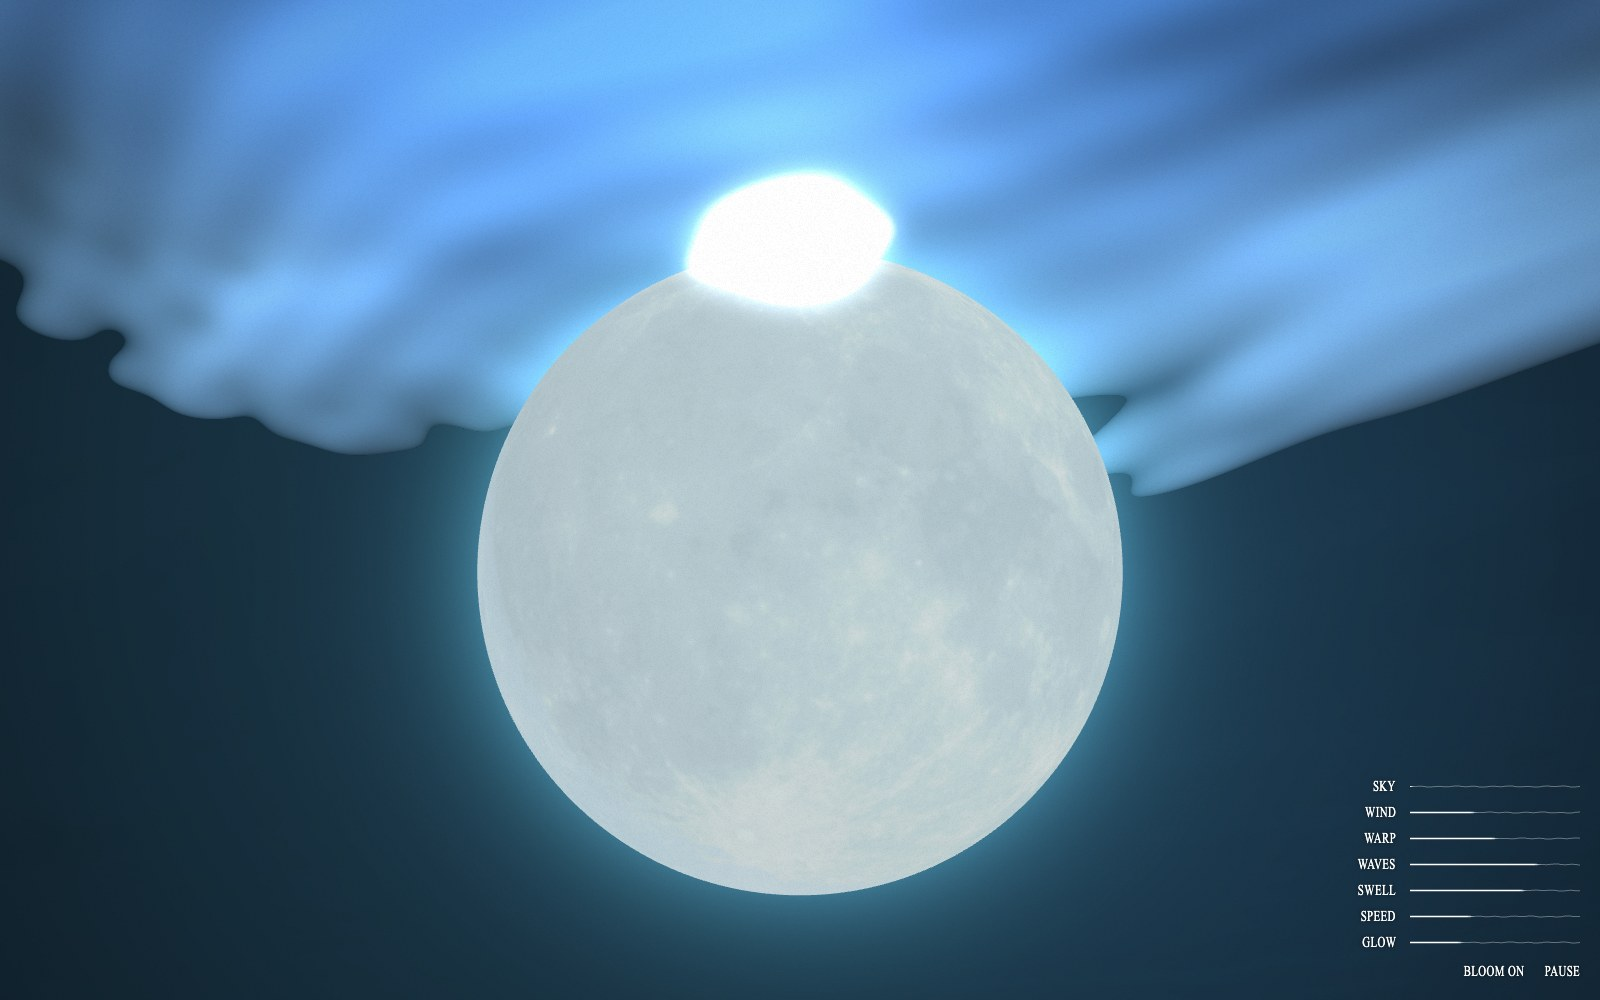
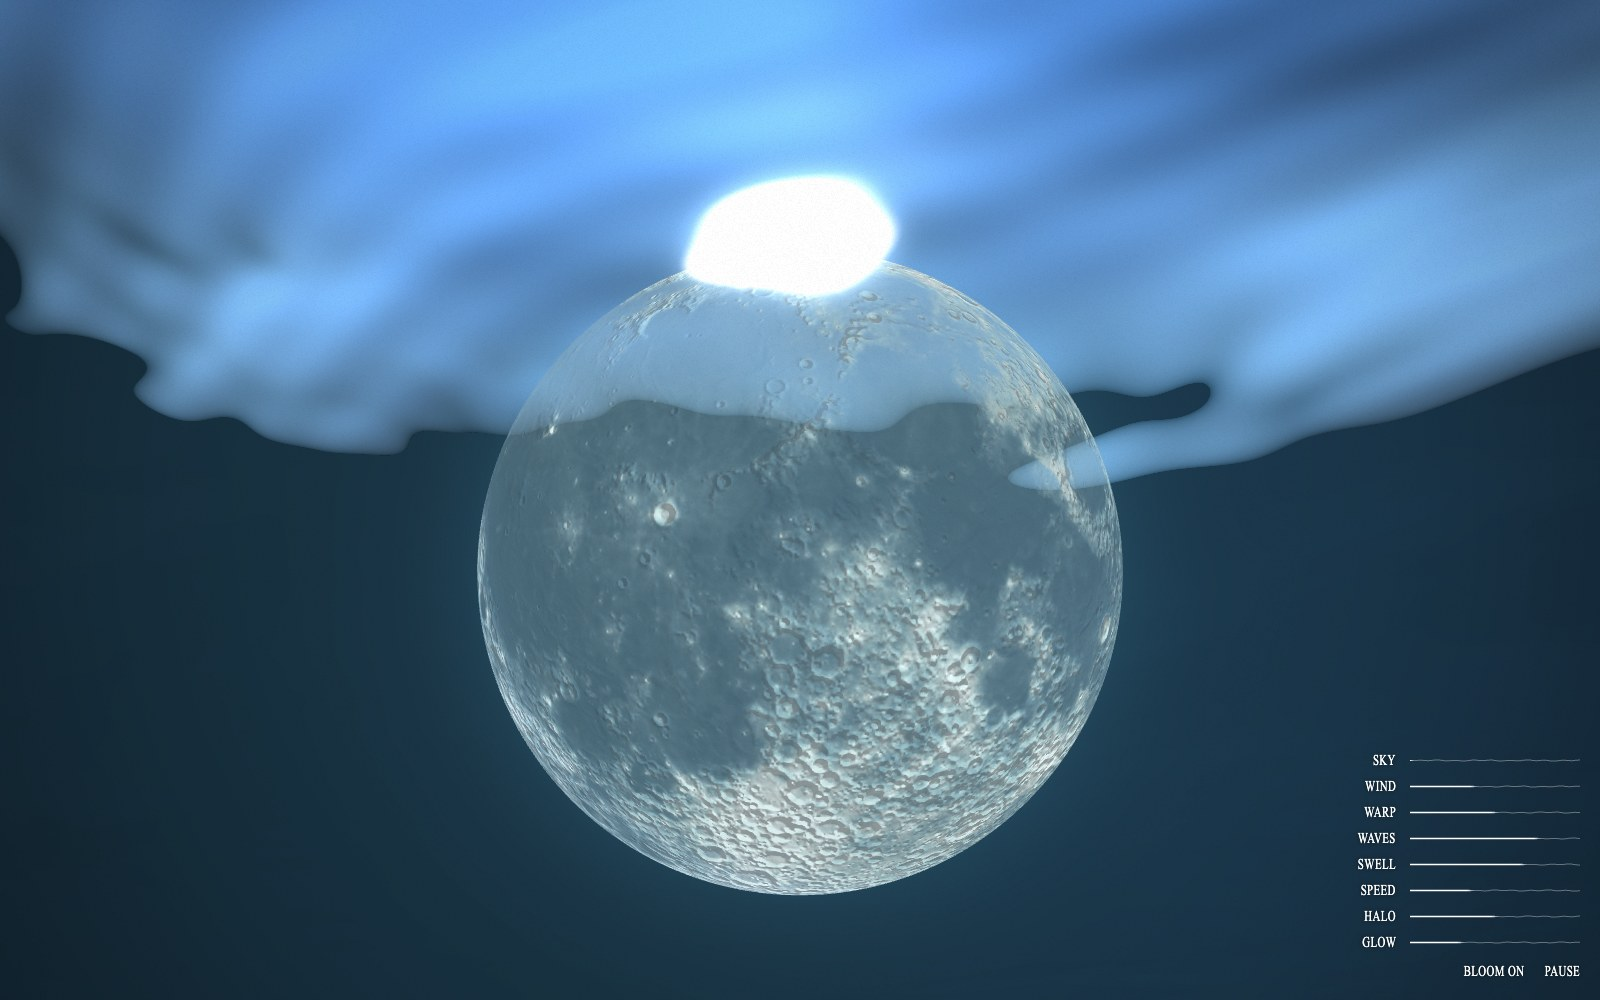
Daytime moon: see-through seas, crater relief, quiet halo; Halo control
By day the moon's dark seas turn see-through and the highlands stay solid, the
crater relief shows across the whole face, and the halo around it is turned down.
New Halo control scales the glow around the moon.

diff --git a/public/games/flymetothemoon/index.html b/public/games/flymetothemoon/index.html
@@ -54,6 +54,7 @@
   <label for="chop"><span class="squeeze">Waves</span></label><div class="line"><canvas aria-hidden="true"></canvas><input id="chop" type="range" min="0" max="1.2" step="0.01" value="0.9"></div>
   <label for="swell"><span class="squeeze">Swell</span></label><div class="line"><canvas aria-hidden="true"></canvas><input id="swell" type="range" min="0" max="1.2" step="0.01" value="0.8"></div>
   <label for="speed"><span class="squeeze">Speed</span></label><div class="line"><canvas aria-hidden="true"></canvas><input id="speed" type="range" min="0.1" max="1.5" step="0.01" value="0.6"></div>
+  <label for="halo"><span class="squeeze">Halo</span></label><div class="line"><canvas aria-hidden="true"></canvas><input id="halo" type="range" min="0" max="2" step="0.01" value="1"></div>
   <label for="glow"><span class="squeeze">Glow</span></label><div class="line"><canvas aria-hidden="true"></canvas><input id="glow" type="range" min="0" max="2" step="0.01" value="0.6"></div>
   <div class="buttons">
     <button id="bloom" type="button" aria-pressed="true"><span class="squeeze">Bloom on</span></button>
@@ -106,7 +107,7 @@
     uDeepL: { value: new THREE.Vector3() }, uDeepR: { value: new THREE.Vector3() }, uUpLight: { value: new THREE.Vector3() },
     uSkyLow: { value: new THREE.Vector3() }, uSkyHigh: { value: new THREE.Vector3() },
     uGlowA: { value: new THREE.Vector3() }, uGlowB: { value: new THREE.Vector3() },
-    uHalo: { value: new THREE.Vector3() }, uImage: { value: new THREE.Vector3() }, uBloomTint: { value: new THREE.Vector3() },
+    uHalo: { value: new THREE.Vector3() }, uHaloGain: { value: 1 }, uImage: { value: new THREE.Vector3() }, uBloomTint: { value: new THREE.Vector3() },
   };
 
   // =====================================================================================
@@ -206,6 +207,7 @@
   // =====================================================================================
   const CAM = { FS: 0.25, ALPHA: 0.648, DEPTH: 3.0, TILE: 20.0 };
   const WATER = `
+      uniform float uHaloGain;
       uniform vec3 uDeepL, uDeepR, uUpLight, uSkyLow, uSkyHigh, uGlowA, uGlowB, uHalo, uImage, uBloomTint;
       uniform sampler2D uSim; uniform float uTime, uSwell, uChop, uWarp, uChopMode, uLimit, uScale; uniform vec2 uMoon; uniform float uMoonR;
       const float FS = ${CAM.FS}, ALPHA = ${CAM.ALPHA}, DEPTH = ${CAM.DEPTH.toFixed(1)}, TILE = ${CAM.TILE.toFixed(1)};
@@ -376,7 +378,7 @@
         vec2 s = screenPos();
         vec3 col = lookUp(s).rgb;
         // halo: sharp edge, then a short exponential fall-off (#37586c at 1.03R to background by ~1.45R)
-        col += uHalo * exp(-max(length(s) - 0.99, 0.0)/0.19);
+        col += uHalo * uHaloGain * exp(-max(length(s) - 0.99, 0.0)/0.19);
         gl_FragColor = vec4(col, 1.0);
       }`
   })));
@@ -400,6 +402,8 @@
     uMoonMul: { value: new THREE.Vector3(1, 1, 1) },      // tint
     uMoonMix: { value: new THREE.Vector4(1, 1, 1, 0) },   // colour to wash toward, and how far
     uMoonDark: { value: new THREE.Vector3() },            // colour of the shadowed crescent
+    uMoonSee: { value: 0 },                               // daytime see-through: dark seas let the sky show
+    uRelief: { value: 0 },                                // crater relief across the whole face (0 = only at the shadow edge)
   };
   const loader = new THREE.TextureLoader();
   function loadInto(key, url) {
@@ -426,15 +430,15 @@
           gl_Position = projectionMatrix * modelViewMatrix * vec4(position,1.0);
         }`,
       fragmentShader: `
-        uniform sampler2D uMap, uNormal; uniform vec3 uLight, uMoonMul, uMoonDark; uniform vec4 uMoonMix;
+        uniform sampler2D uMap, uNormal; uniform vec3 uLight, uMoonMul, uMoonDark; uniform vec4 uMoonMix; uniform float uMoonSee, uRelief;
         varying vec2 vUv; varying vec3 vN; varying vec3 vT;
         void main(){
           vec3 albedo = texture2D(uMap, vUv, 1.6).rgb;
           vec3 N = normalize(vN);
           vec3 T = normalize(vT - N*dot(vT,N));
           vec3 B = cross(N, T);
-          vec3 nt = texture2D(uNormal, vUv, 3.0).xyz*2.0 - 1.0;
-          nt.xy *= 0.6;
+          vec3 nt = texture2D(uNormal, vUv, mix(3.0, 1.2, uRelief)).xyz*2.0 - 1.0;   // crisper with more relief
+          nt.xy *= mix(0.6, 1.0, uRelief);
           vec3 n = normalize(T*nt.x + B*nt.y + N*nt.z);
           float ng = dot(N, uLight), nm = dot(n, uLight);
           float w = 1.0 - smoothstep(0.0, 0.3, abs(ng));
@@ -444,8 +448,13 @@
           vec3 col = mix(dark, day, lit);
           col *= mix(0.85, 1.0, smoothstep(0.0, 0.15, N.z));
           col += vec3(0.03,0.035,0.05) * smoothstep(0.45, 0.95, N.y) * lit;
+          // crater relief over the whole face, not just along the shadow edge
+          col *= 1.0 + clamp((nm - ng)*2.6, -0.45, 0.45) * uRelief;
           col = mix(col*uMoonMul, uMoonMix.rgb, uMoonMix.a);
-          gl_FragColor = vec4(col, smoothstep(0.0, 0.16, N.z));
+          // by day the dark seas turn see-through and the bright highlands stay solid
+          float bright = smoothstep(0.45, 0.64, dot(albedo, vec3(0.2126, 0.7152, 0.0722)));
+          float see = mix(1.0, mix(0.22, 1.0, bright), uMoonSee);
+          gl_FragColor = vec4(col, smoothstep(0.0, 0.16, N.z) * see);
         }`
     })
   );
@@ -631,6 +640,7 @@
   document.getElementById('chop').addEventListener('input', e => uniforms.uChop.value = parseFloat(e.target.value));
   document.getElementById('swell').addEventListener('input', e => uniforms.uSwell.value = parseFloat(e.target.value));
   document.getElementById('speed').addEventListener('input', e => waveSpeed = parseFloat(e.target.value));
+  document.getElementById('halo').addEventListener('input', e => uniforms.uHaloGain.value = parseFloat(e.target.value));
   document.getElementById('glow').addEventListener('input', e => glowU.value = parseFloat(e.target.value));
   let bloomOn = true;
   const bloomBtn = document.getElementById('bloom');
@@ -757,40 +767,42 @@
     { name: 'Day',
       deepL: [0.09,0.19,0.25], deepR: [0.10,0.21,0.29], upLight: [0.05,0.13,0.16],
       skyLow: [0.50,0.70,0.88], skyHigh: [0.28,0.52,0.85], glowA: [0.10,0.10,0.08], glowB: [0.18,0.18,0.15],
-      halo: [0.16,0.30,0.34], image: [1.0,1.0,1.0], bloom: [0.85,0.92,1.0],
-      moonMul: [1,1,1], moonMix: [0.93,0.95,0.96,0.62], moonDark: [0.20,0.30,0.36] },
+      halo: [0.04,0.075,0.085], image: [1.0,1.0,1.0], bloom: [0.85,0.92,1.0],
+      moonMul: [1,1,1], moonMix: [0.94,0.96,0.98,0.4], moonDark: [0.20,0.30,0.36], moonSee: 0.8, relief: 1.0 },
     { name: 'Sunset',
       deepL: [0.14,0.07,0.05], deepR: [0.10,0.06,0.08], upLight: [0.10,0.05,0.02],
       skyLow: [0.92,0.45,0.18], skyHigh: [0.40,0.24,0.36], glowA: [0.30,0.16,0.06], glowB: [0.40,0.28,0.14],
       halo: [0.30,0.16,0.10], image: [1.0,0.86,0.62], bloom: [1.0,0.72,0.45],
-      moonMul: [1.2,0.9,0.72], moonMix: [0.98,0.78,0.58,0.45], moonDark: [0.14,0.06,0.05] },
+      moonMul: [1.2,0.9,0.72], moonMix: [0.98,0.78,0.58,0.45], moonDark: [0.14,0.06,0.05], moonSee: 0.1, relief: 0.25 },
     { name: 'Night',
       deepL: [0.098,0.075,0.075], deepR: [0.102,0.098,0.133], upLight: [0.0,0.03,0.06],
       skyLow: [0.07,0.13,0.22], skyHigh: [0.13,0.25,0.40], glowA: [0.16,0.28,0.38], glowB: [0.25,0.35,0.45],
       halo: [0.118,0.239,0.282], image: [0.95,0.97,1.0], bloom: [0.8,0.87,0.95],
-      moonMul: [1,1,1], moonMix: [1,1,1,0], moonDark: [0.03,0.08,0.11] },
+      moonMul: [1,1,1], moonMix: [1,1,1,0], moonDark: [0.03,0.08,0.11], moonSee: 0, relief: 0 },
     { name: 'Midnight',
       deepL: [0.025,0.02,0.025], deepR: [0.025,0.028,0.04], upLight: [0.0,0.012,0.025],
       skyLow: [0.02,0.035,0.06], skyHigh: [0.035,0.07,0.13], glowA: [0.08,0.13,0.19], glowB: [0.15,0.2,0.27],
       halo: [0.05,0.10,0.12], image: [0.9,0.94,1.0], bloom: [0.55,0.65,0.8],
-      moonMul: [0.78,0.82,0.88], moonMix: [0,0,0,0], moonDark: [0.01,0.03,0.045] },
+      moonMul: [0.78,0.82,0.88], moonMix: [0,0,0,0], moonDark: [0.01,0.03,0.045], moonSee: 0, relief: 0 },
     { name: 'Eclipse',
       deepL: [0.045,0.018,0.018], deepR: [0.04,0.02,0.026], upLight: [0.03,0.004,0.0],
       skyLow: [0.04,0.025,0.03], skyHigh: [0.05,0.03,0.05], glowA: [0.22,0.06,0.03], glowB: [0.32,0.10,0.05],
       halo: [0.26,0.06,0.03], image: [0.98,0.50,0.28], bloom: [0.85,0.32,0.14],
-      moonMul: [1.30,0.48,0.32], moonMix: [0,0,0,0], moonDark: [0.05,0.01,0.01] },
+      moonMul: [1.30,0.48,0.32], moonMix: [0,0,0,0], moonDark: [0.05,0.01,0.01], moonSee: 0, relief: 0.35 },
   ];
   const skyInput = document.getElementById('sky');
   function applySky(v) {
     v = Math.min(SKIES.length - 1, Math.max(0, v));
     const i = Math.min(SKIES.length - 2, Math.floor(v)), f = v - i, A = SKIES[i], B = SKIES[i + 1];
     const mixv = k => A[k].map((a, n) => a + (B[k][n] - a)*f);
+    const mixs = k => A[k] + (B[k] - A[k])*f;
     const set = (u, k) => u.value.fromArray(mixv(k));
     set(uniforms.uDeepL, 'deepL'); set(uniforms.uDeepR, 'deepR'); set(uniforms.uUpLight, 'upLight');
     set(uniforms.uSkyLow, 'skyLow'); set(uniforms.uSkyHigh, 'skyHigh');
     set(uniforms.uGlowA, 'glowA'); set(uniforms.uGlowB, 'glowB');
     set(uniforms.uHalo, 'halo'); set(uniforms.uImage, 'image'); set(uniforms.uBloomTint, 'bloom');
     set(moonUniforms.uMoonMul, 'moonMul'); set(moonUniforms.uMoonMix, 'moonMix'); set(moonUniforms.uMoonDark, 'moonDark');
+    moonUniforms.uMoonSee.value = mixs('moonSee'); moonUniforms.uRelief.value = mixs('relief');
     const d = mixv('deepL');
     CLEAR.setRGB(d[0], d[1], d[2]); renderer.setClearColor(CLEAR, 1);
     document.body.style.background = '#' + CLEAR.getHexString();
@@ -801,7 +813,7 @@
 
   // Settings from the address, e.g. ?sky=sunset&waves=1.2&swell=1.2&speed=0.3&bloom=0&turn=90&ui=0
   const q = new URLSearchParams(location.search);
-  for (const [key, id] of [['wind','wind'], ['warp','warp'], ['waves','chop'], ['swell','swell'], ['speed','speed'], ['glow','glow']]) {
+  for (const [key, id] of [['wind','wind'], ['warp','warp'], ['waves','chop'], ['swell','swell'], ['speed','speed'], ['halo','halo'], ['glow','glow']]) {
     if (q.has(key)) { const el = document.getElementById(id); el.value = q.get(key); el.dispatchEvent(new Event('input')); }
   }
   if (q.has('sky')) {

diff --git a/README.md b/README.md
@@ -56,9 +56,9 @@ Drag the moon to spin it. Let go mid-drag to throw it; press on it while it's tu
 
 ### The sky
 
-The Sky control slides through five times of day. Every colour in the scene comes from one palette: the water on both sides, the light falling from above, the sky seen through the surface and the glow around the moon in it, the reflection and its bloom, the halo, and the moon's own tint and shadow. Between two looks, every colour is blended, so the control shifts smoothly from one to the next.
+The Sky control slides through five times of day. Every colour in the scene comes from one palette: the water on both sides, the light falling from above, the sky seen through the surface and the glow around the moon in it, the reflection and its bloom, the halo, and the moon's own tint, shadow, see-through and crater relief. Between two looks, every colour is blended, so the control shifts smoothly from one to the next.
 
-**Day:** a bright blue sky through the surface, teal water, and a moon washed almost white.
+**Day:** a bright blue sky through the surface and teal water. The moon looks the way it does in daylight: its dark seas turn see-through so the water and sky show through them, the bright highlands stay solid, the craters show crisply across the whole face, and the glow around it all but disappears.
 
 ![Day](docs/screenshots/12-sky-day.jpg)
 
@@ -96,6 +96,7 @@ The controls sit in the lower right as plain white lines: solid up to the curren
 | Waves | Strength of the broad wind sea | 0 – 1.2 | 0.9 |
 | Swell | Strength of the long swells | 0 – 1.2 | 0.8 |
 | Speed | How fast all the water moves (also slows the simulation) | 0.1 – 1.5 | 0.6 |
+| Halo | Strength of the glow around the big moon (on top of what the sky sets) | 0 – 2 | 1 |
 | Glow | Strength of the bloom | 0 – 2 | 0.6 |
 | Bloom on/off | Turns the bloom off entirely | | on |
 | Pause | Freezes the water and the moon | | |
@@ -112,6 +113,7 @@ Every control can be set from the address, which is how the screenshots here wer
 ?wind=0.1&waves=0.3&swell=0.3     calm water
 ?wind=1.2&waves=1.2&swell=1.2     rough water
 ?speed=0.3                        slow motion
+?halo=0                           no glow around the moon
 ?bloom=0                          bloom off
 ?turn=140                         turn the moon 140° to start
 ?ui=0                             hide the controls
